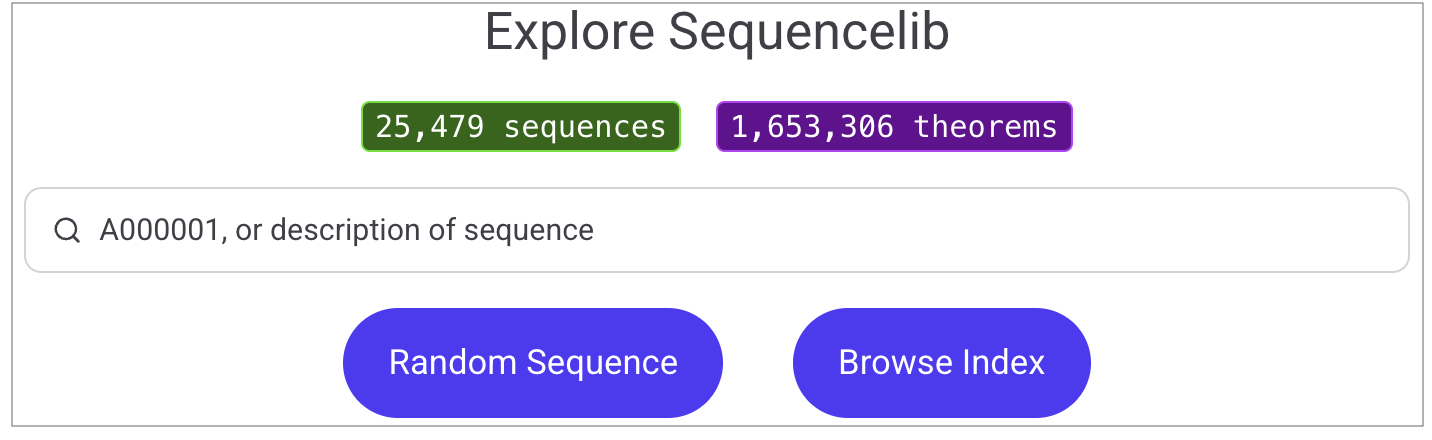
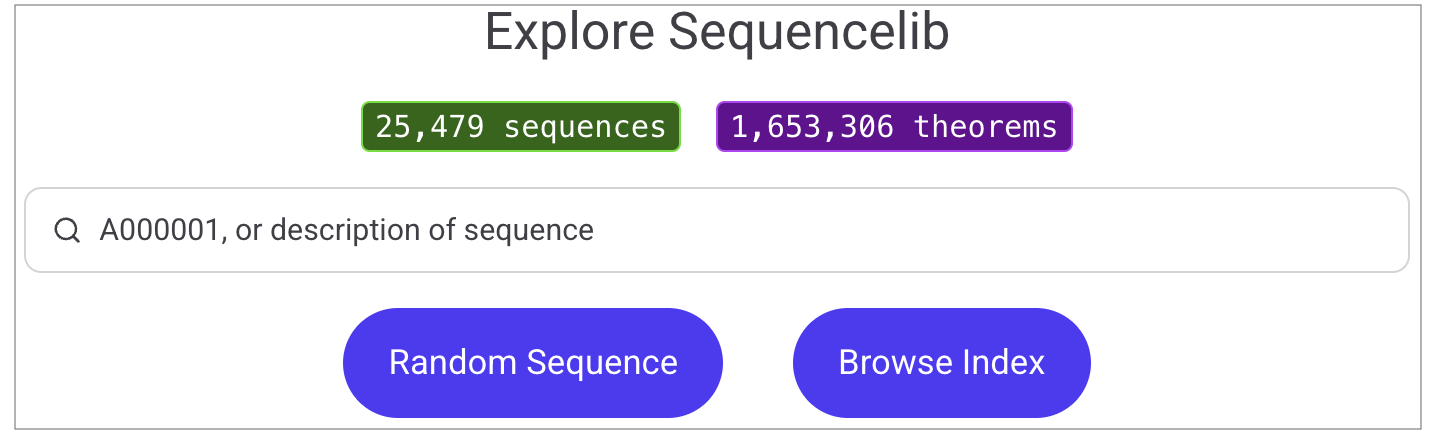
Added SequenceLib in math.md

Changed region(s): [[0.0, 0.0, 1.0, 0.975]]

diff --git a/math.md b/math.md
@@ -84,7 +84,7 @@ This page highlights ongoing and past research efforts connecting **AI, formal m
   <div>
     <h2>
       <a href="https://provables.org/sequencelib/" target="_blank">
-        Sequencelib: A Platform for Formalizing Sequences from The On-Line Encyclopedia of Integer Sequences (OEIS)
+        SequenceLib: A Platform for Formalizing Sequences from The On-Line Encyclopedia of Integer Sequences (OEIS)
       </a> 
       (2025)
     </h2>
